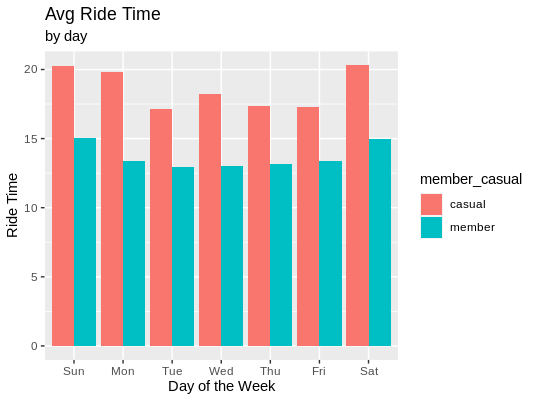
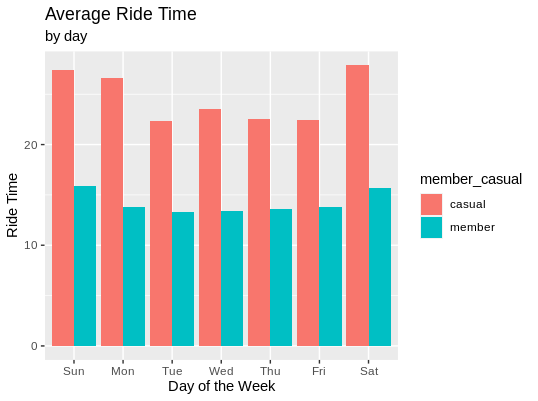
Finishing touches

diff --git a/README.md b/README.md
@@ -29,7 +29,7 @@ I added the following columns to the dataset for convenience in analysis: I made
 
 Before analyzing the data, I removed all observations without an entry for `start_station_name` and `end_station_name` so that there would be no question of data integrity where those observations are concerned. I confirmed that those weren't concentrated on a particular day or month before removing them.
 
-After observing the data both in a histogram and as quartile values, I also elected to eliminate any trips with a duration of more than 1 hour or less than 0 minutes. The data gives no definite answer to how these values were found, but based on the station names and ids, the implication is that many of these may have referred to bikes taken out for maintenance or electric bikes taken out to be charged. Because these accounted for only a tiny percentage of the total observations, I eliminated them as outliers. Trips most frequently lasted between 0 and 30 minutes, which was further evidence that it was appropriate to conclude that trips longer than a couple hours, or even days long in some cases, referred to a different situation entirely than the one I was investigating. 
+After observing the data both in a histogram and as quartile values, I also elected to eliminate any trips with a duration of more than 3 hours or less than 0 minutes. The data gives no definite answer to how these values were found, but based on the station names and ids, the implication is that many of these may have referred to bikes taken out for maintenance or electric bikes taken out to be charged. Because these accounted for only a tiny percentage of the total observations, I eliminated them as outliers. Trips most frequently lasted between 0 and 30 minutes, which was further evidence that it was appropriate to conclude that trips longer than a few hours, or even days long in some cases, referred to a different situation entirely than the one I was investigating. 
 
 Lastly, I noticed that the majority of these outliers I eliminated had `docked_bike` listed as the `rideable_type`. `docked_bike` accounted for a small percentage of the total rides, was always designated as `casual`, and had an average duration of approximately 2 hours - far more than the other bike types. For these reasons, I decided to eliminate all `docked_bike` observations as well, for the purpose of doing calculations. 
 
@@ -43,7 +43,7 @@ The data also displayed significant differences in usage between types of users 
 
 ### Conclusion: The differences between members and casual riders
 
-The data showed three key differences between annual members of the bikeshare and casual users. The first was that over all days and times of the year, casual users took longer rides than annual members did, where the median ride time for casual users was approximately 37% longer and the average ride time 35% longer.
+The data showed three key differences between annual members of the bikeshare and casual users. The first was that over all days and times of the year, casual users took longer rides than annual members did, where the median ride time for casual users was approximately 44% longer and the average ride time 64% longer.
 
 It also showed that the usage rate for casual users (as a fraction of total rides), only matches that of annual members during the summer months and it significantly decreases during the weekdays. That is to say, although there are always some casual users and some members riding, annual members comprise a clear majority during the week and make up nearly all riders during the colder months of the year.
 
